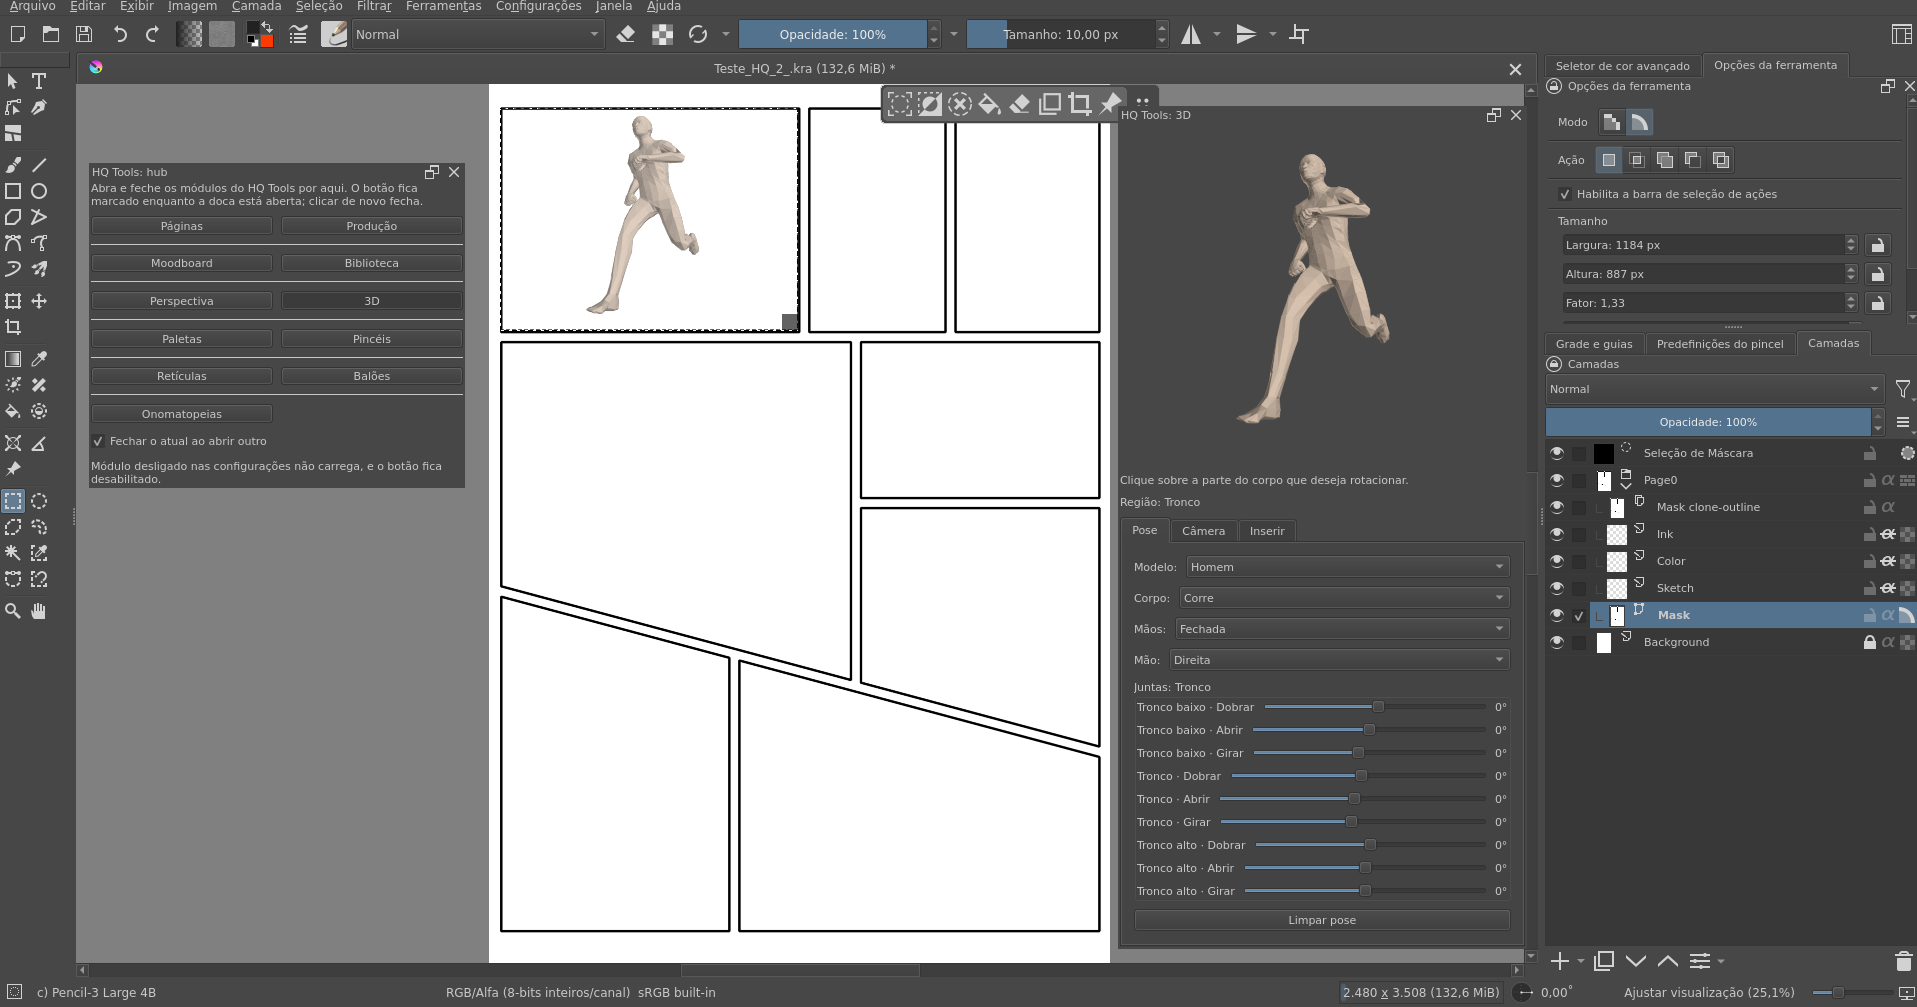
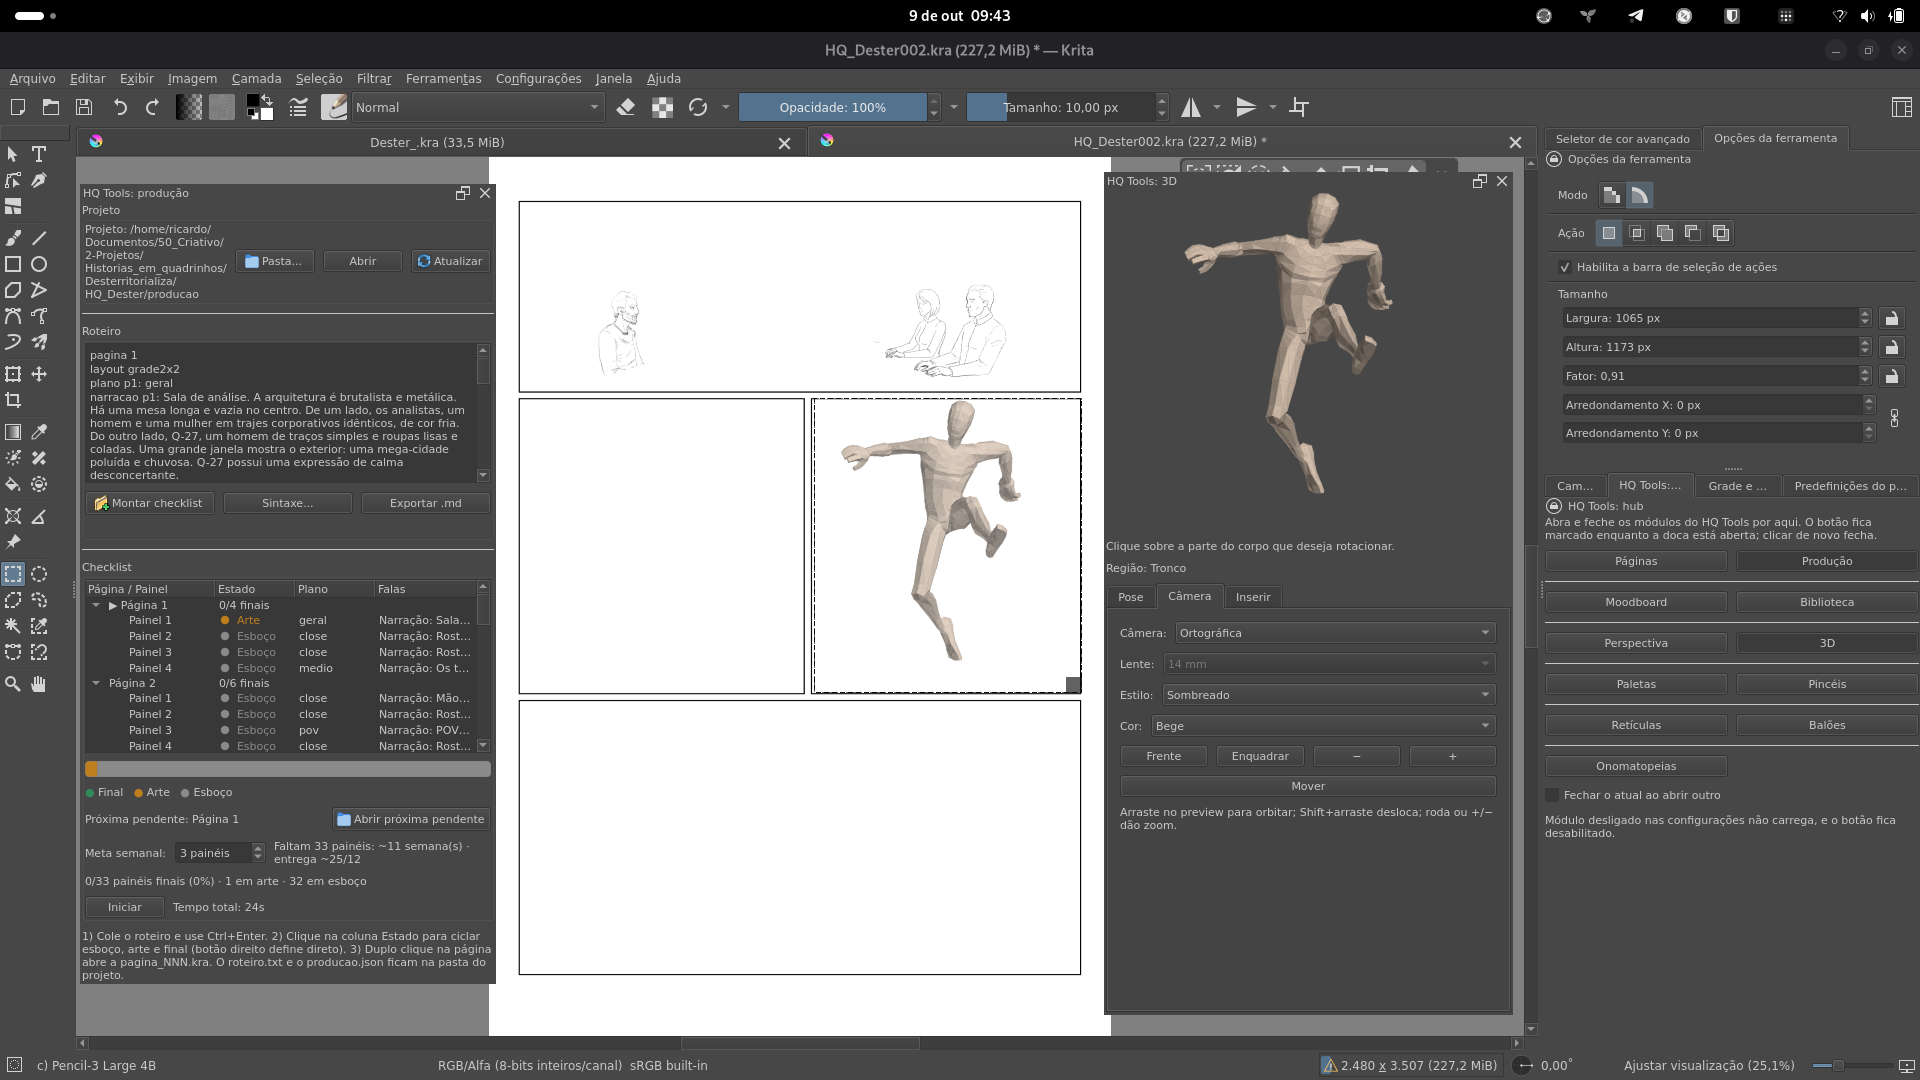
poses: Sentado e Boxing + correcoes nas docs do 3D
- poses/corpo/sentado.json (33 ossos) e boxing.json (31), do FBX do autor; i18n 'Sentado'->'Sitting' e 'Boxing'->'Boxing'.
- QA de visao nas 3 vistas: Boxing le como guarda; Sentado ok em 40/90 (frontal ambiguo pelo encurtamento, normal); sem inversoes.
- Docs: listas de poses nos READMEs e manuais PT/EN; corrigido o 'seletor Mao:' defasado na tabela de modulos e o '(MakeHuman + Auto-Rig Pro)' -> 'malha do autor com rig Auto-Rig Pro'. Sem push ate o teste do autor.

diff --git a/hq_tools/hq_tools_manual.en.html b/hq_tools/hq_tools_manual.en.html
@@ -75,9 +75,9 @@ the <code>biblioteca</code> subfolder of the project folder. Rename, Duplicate
 and Delete act on the selected resource; delete asks for confirmation.</p>
 
 <h2>3D viewer</h2>
-<p>The "HQ Tools: 3D" docker brings a posable low-poly mannequin (MakeHuman
-mesh with Auto-Rig Pro rig) to use as pose reference. Pick the model (Man or
-Woman), the body pose (Idle, Fly, Walk, Run, Jump and Pose A) and the hand pose
+<p>The "HQ Tools: 3D" docker brings a posable low-poly mannequin (author's
+mesh with the Auto-Rig Pro rig) to use as pose reference. Pick the model (Man or
+Woman), the body pose (Idle, Fly, Walk, Run, Jump, Boxing, Sitting and Pose A) and the hand pose
 (Closed, Open, Holding and Thumbs up, authored for the right hand; each hand has
 its own pose box and the left one receives the mirrored version). New poses come in as files in
 <code>poses/corpo/</code> and <code>poses/maos/</code>. Drag on the

diff --git a/hq_tools/hq_tools_manual.html b/hq_tools/hq_tools_manual.html
@@ -76,9 +76,9 @@ subpasta <code>biblioteca</code> da pasta do projeto. Renomear, Duplicar e
 Apagar agem sobre o recurso selecionado; apagar pede confirmação.</p>
 
 <h2>Visualizador 3D</h2>
-<p>O docker "HQ Tools: 3D" traz um manequim low-poly posável (malha MakeHuman
+<p>O docker "HQ Tools: 3D" traz um manequim low-poly posável (malha do autor
 com rig Auto-Rig Pro) para usar como referência de pose. Escolha o modelo
-(Homem ou Mulher), a pose do corpo (Idle, Voa, Anda, Corre, Salto e Pose A) e a das
+(Homem ou Mulher), a pose do corpo (Idle, Voa, Anda, Corre, Salto, Boxing, Sentado e Pose A) e a das
 mãos (Fechada, Abertas, Segura e Joinha, autorais para a mão direita; cada mão
 tem a própria caixa de pose e a esquerda recebe a versão espelhada). Novas poses entram como
 arquivos em <code>poses/corpo/</code> e <code>poses/maos/</code>. Arraste no preview

diff --git a/hq_tools/core/i18n_en.py b/hq_tools/core/i18n_en.py
@@ -585,6 +585,8 @@ TRADUCOES = {
     "Anda": "Walk",
     "Corre": "Run",
     "Pose A": "Pose A",
+    "Boxing": "Boxing",
+    "Sentado": "Sitting",
     "Fechada": "Closed",
     "Abertas": "Open",
     "Segura": "Holding",

diff --git a/README.md b/README.md
@@ -57,7 +57,7 @@ Krita 6 (PyQt6).
 | Paletas | Templates de HQ e artísticas (tons, nanquim, pele, céu, vegetação, chapadas, Zorn, retrato, paisagem, amanhecer, noite, terra, pastel, aquarela, guache, acrílico, retrô, BD, super-herói, mangá, sépia), aplicação na cor de frente/fundo, instalação no Krita e visualização das paletas instaladas. |
 | Páginas | Gerenciador com miniaturas internas dos `.kra`: "Novo projeto..." usa a pasta da página salva (grava comicConfig.json e cria a biblioteca do projeto e a pasta producao/), "Abrir projeto..." lê um `comicConfig.json` do CPMT e "Pasta..." abre qualquer pasta; "Criar próxima página" abre um diálogo (formato A4/A5/A3/tirinha/americano/tankobon/quadrado/livre, DPI e painéis da tirinha), gera a página com guias de margem automáticas e atualiza a grade; "Definir modelo de página" usa a página atual ou um template de HQ do Krita (BD, EUA, mangá...) como modelo; "Camada de referência" marca a camada selecionada e "Importar referência (PNG)" insere uma referência travada no grupo ativo. As páginas novas vêm com o grupo "Arte" e a "Máscara dos painéis" (pinte só dentro; esconda a máscara para pintar fora). |
 | Pincéis | Conjuntos sugeridos (Rascunho, Contornos, Aquarela/Guache, Acrílico/Óleo, Retículas) com cartões de miniatura + nome, montados com os presets instalados no Krita; 8 slots com atalhos configuráveis (botão direito no slot limpa um ou todos, e o botão "Limpar slots" esvazia tudo); aba "Packs" com pincéis da comunidade de licença verificada (instala com um clique e mostra a licença) e o instalador de bundle. |
-| Visualizador 3D | Manequim low-poly posável (MakeHuman + Auto-Rig Pro) como referência, com escolha de modelo (Homem/Mulher) e biblioteca de poses separada em corpo (Idle, Voa, Anda, Corre, Salto e Pose A) e mãos (Fechada, Abertas, Segura e Joinha, autorais para a mão direita, com o seletor Mão: para direita, esquerda espelhada ou ambas): arraste para orbitar; a roda do mouse ou os botões −/+ dão zoom; Shift+arraste, o botão do meio ou o botão Mover deslocam o enquadramento, e "Enquadrar" centraliza; um clique numa região (cabeça, tronco, braço, perna) abre os sliders Dobrar/Abrir/Girar daquela junta. Os controles ficam em abas (Pose, Câmera e Inserir), com o preview sempre à vista; a câmera pode ser ortográfica (padrão) ou perspectiva com lentes 14/28/35 mm (a lente muda só a convergência, sem estourar o quadro), e a cor do manequim é escolhível (bege, azul, gelo ou grafite). Desenhe uma seleção sobre o painel e o preview adota a proporção dela (WYSIWYG, com zoom e deslocamento da câmera); "Flutuar na página" só abre com seleção e aparece sobre ela (arraste/redimensione, opacidade e modo fixar), e a inserção sai no tamanho exato da seleção, abaixo do esboço, desfazendo a seleção. |
+| Visualizador 3D | Manequim low-poly posável (malha do autor com rig Auto-Rig Pro) como referência, com escolha de modelo (Homem/Mulher) e biblioteca de poses separada em corpo (Idle, Voa, Anda, Corre, Salto, Boxing, Sentado e Pose A) e mãos (Fechada, Abertas, Segura e Joinha, autorais para a mão direita, cada mão com a própria caixa e a esquerda recebendo a versão espelhada): arraste para orbitar; a roda do mouse ou os botões −/+ dão zoom; Shift+arraste, o botão do meio ou o botão Mover deslocam o enquadramento, e "Enquadrar" centraliza; um clique numa região (cabeça, tronco, braço, perna) abre os sliders Dobrar/Abrir/Girar daquela junta. Os controles ficam em abas (Pose, Câmera e Inserir), com o preview sempre à vista; a câmera pode ser ortográfica (padrão) ou perspectiva com lentes 14/28/35 mm (a lente muda só a convergência, sem estourar o quadro), e a cor do manequim é escolhível (bege, azul, gelo ou grafite). Desenhe uma seleção sobre o painel e o preview adota a proporção dela (WYSIWYG, com zoom e deslocamento da câmera); "Flutuar na página" só abre com seleção e aparece sobre ela (arraste/redimensione, opacidade e modo fixar), e a inserção sai no tamanho exato da seleção, abaixo do esboço, desfazendo a seleção. |
 | Perspectiva | Biblioteca de 9 malhas de perspectiva (frontal, dois e três pontos, pássaro e verme em dois níveis, curvilíneas de 4 e 5 pontos) com miniatura e prévia que adota a proporção da seleção: "Flutuar na página" mostra a malha sobre a seleção (arraste e roda); a inserção sai como camada vetorial editável (cada linha com dois nós) no tamanho exato da seleção, abaixo do esboço, como camada ou referência travada, dentro de macro (um Ctrl+Z desfaz) e desfazendo a seleção. |
 | Moodboard | Quadro de referências do projeto, leve porque guarda só links: "Adicionar referências..." redimensiona (lado máximo 1600 px) e salva as imagens em JPG na pasta `moodboard/` do projeto (os originais não mudam) e as insere no `moodboard.kra` como camadas de arquivo numa grade que cresce; duplo clique (ou "Inserir na seleção") traz a referência para o painel selecionado, travada e na medida da seleção, para desenhar por cima; Renomear e Apagar cuidam da pasta (com o quadro aberto, a camada é atualizada junto). |
 | Produção | Checklist do roteiro: cole o texto (a mesma sintaxe das páginas, com o personagem opcional na fala, ex.: `fala p1 joao: ...`) e use Ctrl+Enter; o roteiro salva sozinho (com o aviso "salvo HH:MM") e cada página vira um nó com os painéis do layout; cada painel tem três estados com bolinha colorida na árvore (esboço, arte e final; clique na coluna Estado para ciclar, botão direito define direto), com as falas e personagens à vista; a barra no topo mostra o progresso em três cores e o botão "Abrir próxima pendente" leva à primeira página não finalizada; o tempo de produção é contado pelo botão Iniciar/Pausar (total e por página, em `tempos.json`); a meta de painéis por semana mostra o que falta e a data prevista, o duplo clique abre a `pagina_NNN.kra` e "Exportar .md" salva o checklist com checkboxes, emojis de estado e tempo por página; o `roteiro.txt`, o `producao.json` e o `tempos.json` ficam na subpasta `producao/` do projeto (criada com o projeto; sem projeto aberto, salva na pasta padrão do plugin e avisa para escolher a pasta), e o botão "Sintaxe..." mostra o formato completo. |

diff --git a/README.en.md b/README.en.md
@@ -58,7 +58,7 @@ overview.
 | Palettes | Comic and artistic templates (tones, ink, skin, sky, vegetation, flat colors, Zorn, portrait, landscape, dawn, night, earth, pastel, watercolor, gouache, acrylic, retro, BD, superhero, manga, sepia), applied to the foreground/background color, installed into Krita and previewed from the installed palettes. |
 | Pages | Manager with internal `.kra` thumbnails: "New project..." uses the saved page folder (writes comicConfig.json and creates the project library and the producao/ folder), "Open project..." reads a CPMT `comicConfig.json` and "Folder..." opens any folder; "Create next page" opens a dialog (A4/A5/A3/strip format, DPI and strip panels), generates the page with automatic margin guides and refreshes the grid; "Set page template" uses the current page or a Krita comic template (BD, US, manga...) as the model; "Reference layer" marks the selected layer and "Import reference (PNG)" inserts a locked reference into the active group. New pages come with the "Arte" group and the "Panel mask" (paint only inside; hide the mask to paint outside). |
 | Brushes | Suggested sets (Sketching, Inking, Watercolor/Gouache, Acrylic/Oil, Screentones) with thumbnail + name cards built from the brush presets installed in Krita; 8 slots with configurable shortcuts (right-click a slot to clear one or all, and the "Clear slots" button empties them); "Packs" tab with community brushes with verified licenses (one-click install and license display) and the brush bundle installer. |
-| 3D viewer | Posable low-poly mannequin (MakeHuman + Auto-Rig Pro) as reference, with model choice (Man/Woman) and a pose library split into body (Idle, Fly, Walk, Run, Jump and Pose A) and hands (Closed, Open, Holding and Thumbs up, authored for the right hand, with the Hand: selector for right, mirrored left or both): drag to orbit; the mouse wheel or the −/+ buttons zoom; Shift+drag, the middle mouse button or the Move button pan the framing, and "Fit" recenters; click a region (head, torso, arm, leg) to open Bend/Open/Twist sliders for that joint. The controls live in tabs (Pose, Camera and Insert), with the preview always visible; the camera can be orthographic (default) or perspective with 14/28/35 mm lenses (the lens changes only the convergence, without spilling out of the frame), and the mannequin color is selectable (beige, blue, ice or graphite). Draw a selection over the panel and the preview adopts its aspect ratio (WYSIWYG, camera zoom and pan included); "Float on page" only opens with a selection and appears over it (drag/resize, opacity and lock mode), and the insertion lands at the exact selection size, below the sketch, clearing the selection. |
+| 3D viewer | Posable low-poly mannequin (author's mesh with the Auto-Rig Pro rig) as reference, with model choice (Man/Woman) and a pose library split into body (Idle, Fly, Walk, Run, Jump, Boxing, Sitting and Pose A) and hands (Closed, Open, Holding and Thumbs up, authored for the right hand, each hand with its own box and the left one receiving the mirrored version): drag to orbit; the mouse wheel or the −/+ buttons zoom; Shift+drag, the middle mouse button or the Move button pan the framing, and "Fit" recenters; click a region (head, torso, arm, leg) to open Bend/Open/Twist sliders for that joint. The controls live in tabs (Pose, Camera and Insert), with the preview always visible; the camera can be orthographic (default) or perspective with 14/28/35 mm lenses (the lens changes only the convergence, without spilling out of the frame), and the mannequin color is selectable (beige, blue, ice or graphite). Draw a selection over the panel and the preview adopts its aspect ratio (WYSIWYG, camera zoom and pan included); "Float on page" only opens with a selection and appears over it (drag/resize, opacity and lock mode), and the insertion lands at the exact selection size, below the sketch, clearing the selection. |
 | Perspective | Library of 9 perspective grids (one-point, two-point, three-point, bird's and worm's eye in two levels, 4- and 5-point curvilinear) with thumbnails and a preview that adopts the selection aspect ratio: "Float on page" shows the grid over the selection (drag and wheel); the insertion lands as an editable vector layer (each line with two nodes) at the exact selection size, below the sketch, as a layer or a locked reference, inside a macro (one Ctrl+Z undoes it) and clearing the selection. |
 | Moodboard | Project reference board, light because it stores only links: "Add references..." resizes (max side 1600 px) and saves the images as JPG in the project's `moodboard/` folder (the originals stay untouched) and inserts them into `moodboard.kra` as file layers on a grid that grows; double-click (or "Insert into selection") brings the reference to the selected panel, locked and fitted to the selection, for tracing over; Rename and Delete manage the folder (with the board open, the layer is updated along). |
 | Production | Script checklist: paste the text (the same syntax as the pages, with the optional character on the line, e.g. `fala p1 joao: ...`) and use Ctrl+Enter; the script auto-saves (with a "saved HH:MM" hint) and each page becomes a node with the layout panels; each panel has three states with a colored dot in the tree (sketch, art and final; click the State column to cycle, right-click sets it directly), with the lines and characters in view; the bar on top shows the progress in three colors and the "Open next pending" button jumps to the first unfinished page; production time is counted with the Start/Pause button (total and per page, in `tempos.json`); the weekly panel goal shows what is left and the expected date, double-click opens the `pagina_NNN.kra` and "Export .md" saves the checklist with checkboxes, state emojis and per-page time; `roteiro.txt`, `producao.json` and `tempos.json` live in the project's `producao/` subfolder (created with the project; without a project open, it saves in the plugin default folder and warns to choose the folder), and the "Syntax..." button shows the full format. |
